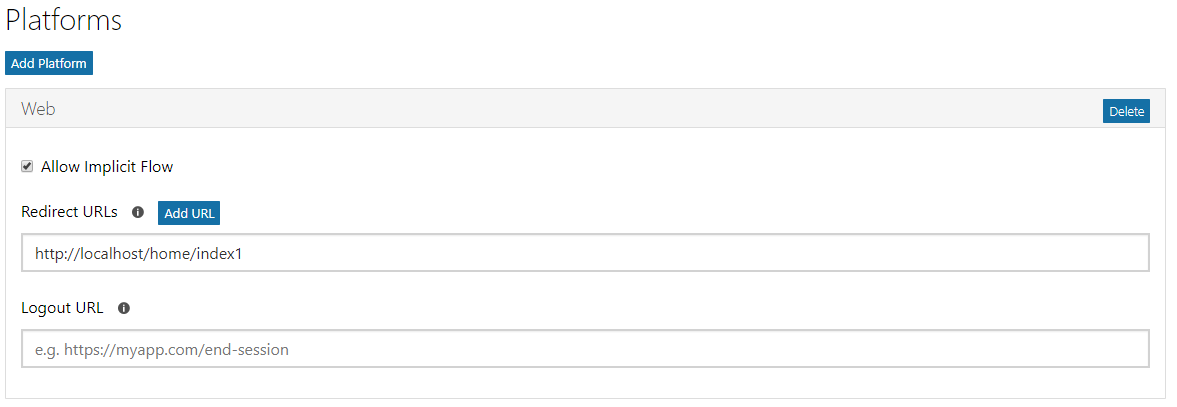
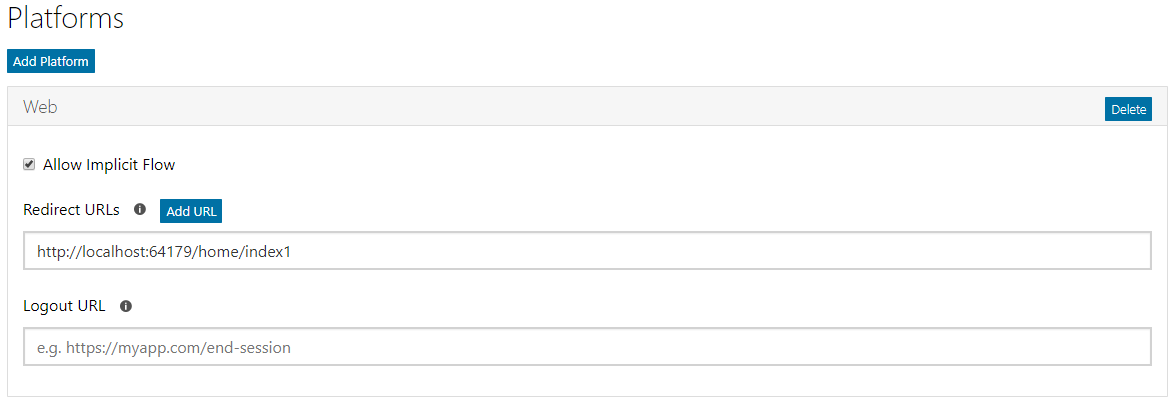
.

diff --git a/CustomTranslatorSampleCode/CustomTranslatorSampleCode/CustomTranslatorAPIClient.cs b/CustomTranslatorSampleCode/CustomTranslatorSampleCode/CustomTranslatorAPIClient.cs
@@ -12,7 +12,19 @@ namespace CustomTranslatorSampleCode
     {
         static string host = "https://custom-api.cognitive.microsofttranslator.com"; // prod
 
-
+        /// <summary>
+        /// Gets the list of workspaces.
+        /// </summary>
+        /// <param name="authtoken">Access Token</param>
+        public async Task<string> GetWorkspaces(string authtoken)
+        {
+            string apipath = "/api/texttranslator/v1.0/workspaces";
+            string uri = host + apipath;
+            RestRequest request = new RestRequest();
+            request.AddHeader("Authorization", authtoken);
+            string response = await request.GetRestRequest(uri);
+            return response;
+        }
 
         /// <summary>
         /// Gets the list of categories that can be assigned to the project.
@@ -465,23 +477,12 @@ namespace CustomTranslatorSampleCode
             RestRequest request = new RestRequest();
             request.AddHeader("Authorization", authtoken);
 
-            //ModelCreateRequest model = new ModelCreateRequest(); // Create new object for Model and add values
-            //model.name = "test Model May 4 prod"; // Enter model name
-            //model.projectId = "eb12ef3b-a122-4d73-8741-802426a0ab7c"; // Enter project id
-            //model.documentIds = new List<int>();
-            //model.documentIds.Add(215); // Add multiple documents using DocumentID. DocumentID is int.
-            //model.isTuningAuto = true; // Enter if tuning set will be set to auto. values = true, false
-            //model.isTestingAuto = true; // Enter if testing set will be set to auto. values = true, false
-            //model.isAutoDeploy = false; // Enter if this model will be automatically deployed. values = true, false
-            //model.autoDeployThreshold = 0; // Enter the value of auto deploy threshold value
-
             string response = "";
             try
             {
                 string stringdata = JsonConvert.SerializeObject(model, Formatting.Indented);
                 StringContent content = new StringContent(stringdata, System.Text.Encoding.UTF8, "application/json-patch+json");
                 response = await request.PostRestRequest(uri, content);
-                Console.WriteLine(response);
             }
             catch (Exception e)
             {
@@ -525,11 +526,11 @@ namespace CustomTranslatorSampleCode
         /// Deploy or undeploy a model. 
         /// </summary>
         /// <param name="id">The Id of the model to deploy or undeploy.</param>
-        /// <param name="action">The deployment action. Value = deploy/ undeploy</param>
+        /// <param name="deploymentconfig">List of deployment configuration for different region.
         /// <param name="authtoken">Access token.</param>
-        public async Task<string> CreateModelDeploymentRequest(long id, string action, string authtoken)
+        public async Task<string> CreateModelDeploymentRequest(long id, List<DeploymentConfiguration> deploymentconfig, string authtoken)
         {
-            string apipath = $"/api/texttranslator/v1.0/models/{id}/deployment?action={action}";
+            string apipath = $"/api/texttranslator/v1.0/models/{id}/deployment";
 
             string uri = host + apipath;
             RestRequest request = new RestRequest();
@@ -537,29 +538,17 @@ namespace CustomTranslatorSampleCode
 
             StringContent content = null;
             string response = "";
+
             try
             {
+                string stringdata = JsonConvert.SerializeObject(deploymentconfig, Formatting.Indented);
+                content = new StringContent(stringdata, System.Text.Encoding.UTF8, "application/json-patch+json");
                 response = await request.PostRestRequest(uri, content);
             }
             catch (Exception e)
             {
                 response = e.Message + ". " + e.InnerException;
             }
-            return response;
-        }
-
-        /// <summary>
-        /// Deletes a specific model
-        /// </summary>
-        /// <param name="id">The Id of the model to delete.</param>
-        /// <param name="authtoken">Access token.</param>
-        public async Task<string> DeleteModel(long id, string authtoken)
-        {
-            string apipath = $"/api/texttranslator/v1.0/models/{id}";
-            string uri = host + apipath;
-            RestRequest request = new RestRequest();
-            request.AddHeader("Authorization", authtoken);
-            string response = await request.DeleteRestRequest(uri);
             return response;
         }
 

diff --git a/CustomTranslatorSampleCode/CustomTranslatorSampleCode/Controllers/ModelController.cs b/CustomTranslatorSampleCode/CustomTranslatorSampleCode/Controllers/ModelController.cs
@@ -82,7 +82,7 @@ namespace CustomTranslatorSampleCode.Controllers
             model.isAutoDeploy = false; // Enter if this model will be automatically deployed. values = true, false
             model.autoDeployThreshold = 0; // Enter the value of auto deploy threshold value
 
-            string result = await clientapp.GetProject("model.projectId", token_header);
+            string result = await clientapp.GetProject(model.projectId, token_header);
             Project project = getProjectDetail(result);
 
             result = await clientapp.CreateModel(token_header, model);
@@ -134,12 +134,31 @@ namespace CustomTranslatorSampleCode.Controllers
 
             long modelid = (long)id;
             CustomTranslatorAPIClient clientapp = new CustomTranslatorAPIClient();
-            string result = await clientapp.CreateModelDeploymentRequest(modelid, "deploy", token_header);
+
+
+            DeploymentConfiguration regionaldeployment1 = new DeploymentConfiguration();
+            regionaldeployment1.region = 1; // North America = 1
+            regionaldeployment1.isDeployed = true; // true = deployment ; false = undeployment
+
+            DeploymentConfiguration regionaldeployment2 = new DeploymentConfiguration();
+            regionaldeployment2.region = 2; // Europe = 2
+            regionaldeployment2.isDeployed = true; // true = deployment ; false = undeployment
+
+            DeploymentConfiguration regionaldeployment3 = new DeploymentConfiguration();
+            regionaldeployment3.region = 3; // Asia Pacific
+            regionaldeployment3.isDeployed = true; // true = deployment ; false = undeployment
+
+            List<DeploymentConfiguration> deploymentconfig = new List<DeploymentConfiguration>();
+            deploymentconfig.Add(regionaldeployment1);
+            deploymentconfig.Add(regionaldeployment2);
+            deploymentconfig.Add(regionaldeployment3);
+
+            string result = await clientapp.CreateModelDeploymentRequest(modelid, deploymentconfig, token_header);
             Response.Write(result);
             return View();
         }
 
-            Project getProjectDetail(string result)
+        Project getProjectDetail(string result)
         {
             Project project = JsonConvert.DeserializeObject<Project>(result);
             return project;

diff --git a/CustomTranslatorSampleCode/CustomTranslatorSampleCode/ObjectModel.cs b/CustomTranslatorSampleCode/CustomTranslatorSampleCode/ObjectModel.cs
@@ -210,4 +210,11 @@ namespace CustomTranslatorSampleCode
         public bool isAutoDeploy { get; set; }
         public object autoDeployThreshold { get; set; }
     }
+
+    public class DeploymentConfiguration
+    {
+        public int region { get; set; }
+        public bool isDeployed { get; set; }
+
+    }
 }

diff --git a/README.md b/README.md
@@ -1,3 +1,12 @@
+
+Overview
+=============
+This sample code provides guidance on how to use the Custom Translator API using ASP.NET MVC application. Refer to [Custom Translator documentation](https://docs.microsoft.com/en-gb/azure/cognitive-services/translator/custom-translator/overview) to know more about different features of Custom Translator. 
+
+Current API documentation of Custom Translator API can be found [here](https://custom-api.cognitive.microsofttranslator.com/swagger/).
+
+Please contact <custommt@microsoft.com> for question and support.
+
 Prerequisites
 =============
 
@@ -5,63 +14,62 @@ Create and Register your Azure AD Client App
 --------------------------------------------
 
 This sample code uses OAuth and OpenID for authentication. Please sign in to
-<https://apps.dev.microsoft.com> with the same user credentials you use to login to 
-Custom Translator. The landing page shows the list of client apps that are created/
-available to use with your account.
+<https://apps.dev.microsoft.com> with the same user credentials you use to login
+to Custom Translator. The landing page shows the list of client apps that are
+created/ available to use with your account.
 
-Create an app using “Add an app” button at top right-hand corner of the landing
+Create an app using **Add an app** button at top right-hand corner of the landing
 page.
 
 ![My applications](media/a7247b6a16b3f4151e06661514e03c17.png)
 
-Enter application name and click on “Create”.
+Enter application name and click on **Create**.
 
-![Client app registration ](media/e90a645b51ab87c3be1002ea553beae1.png)
+![Client app registration](media/e90a645b51ab87c3be1002ea553beae1.png)
 
-Generate a new password and keep it safe. This is the Application Secret, and
+Generate a new password and keep it safe. This is the **Application Secret**, and
 will be used in the application for authentication.
 
 ![Generate secret](media/7af76b36b33c6fb891f6b81a279876d5.png)
 
-When an application is created, the default delegated permission for it are
-“User.Read”.
+When an application is created, the default delegated permission for it are **User.Read**.
+Add two additional delegated permissions 
+- **offline_access** 
+- **openid**.
 
-Add two additional delegated permissions (a) offline_access (b) openid.
-These permissions can be added from the “Microsoft Graph Permissions and then Delegated Permissions”
-section in the page.
+Go to **Microsoft Graph Permissions**, the **Delegated Permissions** in the page to add these permissions.
 
 ![Client app settings](media/80019947a3cce059868f06af8c3ade64.png)
 
 For the MVC web application, a new “Web” platform needs to be added from
 “Platforms” section of the page.
 
-Enter the redirect URL for the web platform. This URL is where your
-MVC web app should redirect after authentication.
-
-You can ignore the sign-out URL field.
+Enter the **Redirect URLs** for the web platform. This URL is where your MVC web app
+should redirect after authentication. You can change Redirect URLs based on your application configuration.
 
 ![Client app platform](media/569a20d01ecc065a7c7e2dda1d71c2f8.png)
 
 Now save the changes you made and the portal will take you to the landing page,
-where all your registered applications are listed. The App Id/ Client ID listed here
-will be used to authenticate in the MVC web app.
+where all your registered applications are listed. The **App Id/ Client ID** listed here will be used to authenticate in the MVC web app.
 
 ![Client app ID](media/b62f689c2a22aadc75c50be3f1e4e054.png)
 
 Provide Consent and Accept Terms
 --------------------------------
 
-If you haven't already logged in to [Custom Translator Portal](https://portal.customtranslator.azure.ai) with your user account (the same user
-account you used to create/register the AAD app), you will need to login to accept 
-the terms and conditions.
+If you haven't already logged in to [Custom Translator
+Portal](https://portal.customtranslator.azure.ai) with your user account (the
+same user account you used to create/register the AAD app), you will need to
+login to accept the terms and conditions.
 
-After you sign in to [Custom Translator portal](https://portal.customtranslator.azure.ai) with your user account, you will
-receive a popup window requesting your consent.
+After you sign in to [Custom Translator
+portal](https://portal.customtranslator.azure.ai) with your user account, you
+will receive a popup window requesting your consent.
 
 ![Consent](media/6f80750d375a5554fe034a66aeb1d07b.png)
 
-After you’ve provided consent, a popup window for terms will be shown.
-Read and accept the terms to continue.
+After you’ve provided consent, a popup window for terms will be shown. Read and
+accept the terms to continue.
 
 ![Accept terms](media/3b8c1ee4b297b3f9349b619ab42f7e04.png)
 
@@ -71,24 +79,23 @@ Setup MVC App Code
 Open Visual Studio (Run as Administrator) and open
 CustomTranslatorSampleCode.sln.
 
-Go to CustomTranslatorSampleCode project and open Controllers and then 
+Go to CustomTranslatorSampleCode project and open Controllers and then
 HomeController.cs
 
 Update the values in your code:
 
-1.  clientID: update this value with the App Id/Client ID
-    listed in Application Registration Portal.
+1.  **clientID**: update this value with the App Id/Client ID listed in Application
+    Registration Portal.
 
-2.  clientsecret: update this value with your App’s secret/ password.
+2.  **clientsecret**: update this value with your App’s secret/ password.
 
-3.  redirectUri: update it as per your MVC app’s controller URL.
+3.  **redirectUri**: update it as per your MVC app’s URL.
 
-    ![Variables](media/d1458ea2a714990ad437a0a09cc89fbd.png)
+![Variables](media/d1458ea2a714990ad437a0a09cc89fbd.png)
 
-4. session Session["ws_id"]: update this variable based on your workspace ID.
+1.  **session Session["ws_id"]**: update this variable based on your workspace ID.
 
-    ![Workspace](media/update_workspace_id.png)
+![Workspace](media/f651beb476cce3fe6e48a2841cb6feeb.png)
 
-Build the code and run it in Visual Studio to verify everything is working. If you have not modified any code other than the changes listed above, you should see the landing page of the ASP.NET MVC application.
 
-![MVC app landing page](media/mvc_app_landing_page.png)
+Build the code and run it in Visual Studio to verify everything is working.
